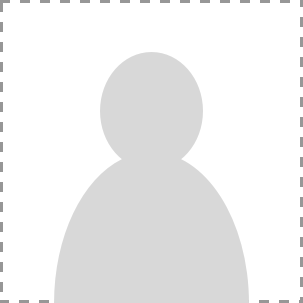
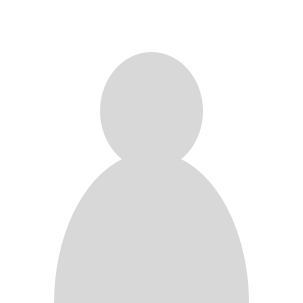
final for fullstack

diff --git a/frontend/components/structure/main/gallery_display.jsx b/frontend/components/structure/main/gallery_display.jsx
@@ -26,7 +26,10 @@ class GalleryDisplay extends React.Component {
         </span>
     ) : (
         <span className='main-image'>
-          <img className='carousel-main' src={this.props.screenshots[0]} alt="" />
+
+          {this.props.screenshots.map(screenshot => {
+            return <img key={`scr-${screenshot}`} className='carousel-main' src={screenshot} alt="" />
+          })}
         </span>
       ) : (
         <span className='main-image'>

diff --git a/frontend/components/structure/main/feed_list.jsx b/frontend/components/structure/main/feed_list.jsx
@@ -23,7 +23,7 @@ class FeedList extends React.Component {
         </li>
       )
     })
-    debugger
+    
     if (this.props.products.popularIds.length === 0) return (
       <ul className="feed-list">
         <section>

diff --git a/app/assets/stylesheets/components/show_gallery.scss b/app/assets/stylesheets/components/show_gallery.scss
@@ -15,6 +15,8 @@ section.gallery {
       border: 1px solid $lightgray;
       align-self: flex-start;
       height: 360px;
+      display: flex;
+      overflow-x: scroll;
     }
 
     img.filmstrip {

diff --git a/db/seeds.rb b/db/seeds.rb
@@ -10,22 +10,22 @@ rivky = User.create(username: 'rivky', password: 'rivky55', email: 'rivky@gmail.
 leah = User.create(username: 'leah', password: 'leah55', email: 'leah@gmail.html')
 berel = User.create(username: 'berel', password: 'berel55', email: 'berel@gmail.html')
 
-default_pp = open('https://web-hunt-seeds.s3.amazonaws.com/user.png')
+default_pp = open('https://web-hunt-seeds.s3.amazonaws.com/user-2.png')
 default_hp = open('https://web-hunt-seeds.s3.amazonaws.com/header.png')
 
-default_pp1 = open('https://web-hunt-seeds.s3.amazonaws.com/user.png')
+default_pp1 = open('https://web-hunt-seeds.s3.amazonaws.com/user-2.png')
 default_hp1 = open('https://web-hunt-seeds.s3.amazonaws.com/header.png')
 
-default_pp2 = open('https://web-hunt-seeds.s3.amazonaws.com/user.png')
+default_pp2 = open('https://web-hunt-seeds.s3.amazonaws.com/user-2.png')
 default_hp2 = open('https://web-hunt-seeds.s3.amazonaws.com/header.png')
 
-default_pp3 = open('https://web-hunt-seeds.s3.amazonaws.com/user.png')
+default_pp3 = open('https://web-hunt-seeds.s3.amazonaws.com/user-2.png')
 default_hp3 = open('https://web-hunt-seeds.s3.amazonaws.com/header.png')
 
-default_pp4 = open('https://web-hunt-seeds.s3.amazonaws.com/user.png')
+default_pp4 = open('https://web-hunt-seeds.s3.amazonaws.com/user-2.png')
 default_hp4 = open('https://web-hunt-seeds.s3.amazonaws.com/header.png')
 
-default_pp5 = open('https://web-hunt-seeds.s3.amazonaws.com/user.png')
+default_pp5 = open('https://web-hunt-seeds.s3.amazonaws.com/user-2.png')
 default_hp5 = open('https://web-hunt-seeds.s3.amazonaws.com/header.png')
 
 # [sharshi, mushky, rivky, leah, berel, demo].each { |u, i| u.profile_picture.attach(io: default_pp, filename: "#{i}_user.png") }
